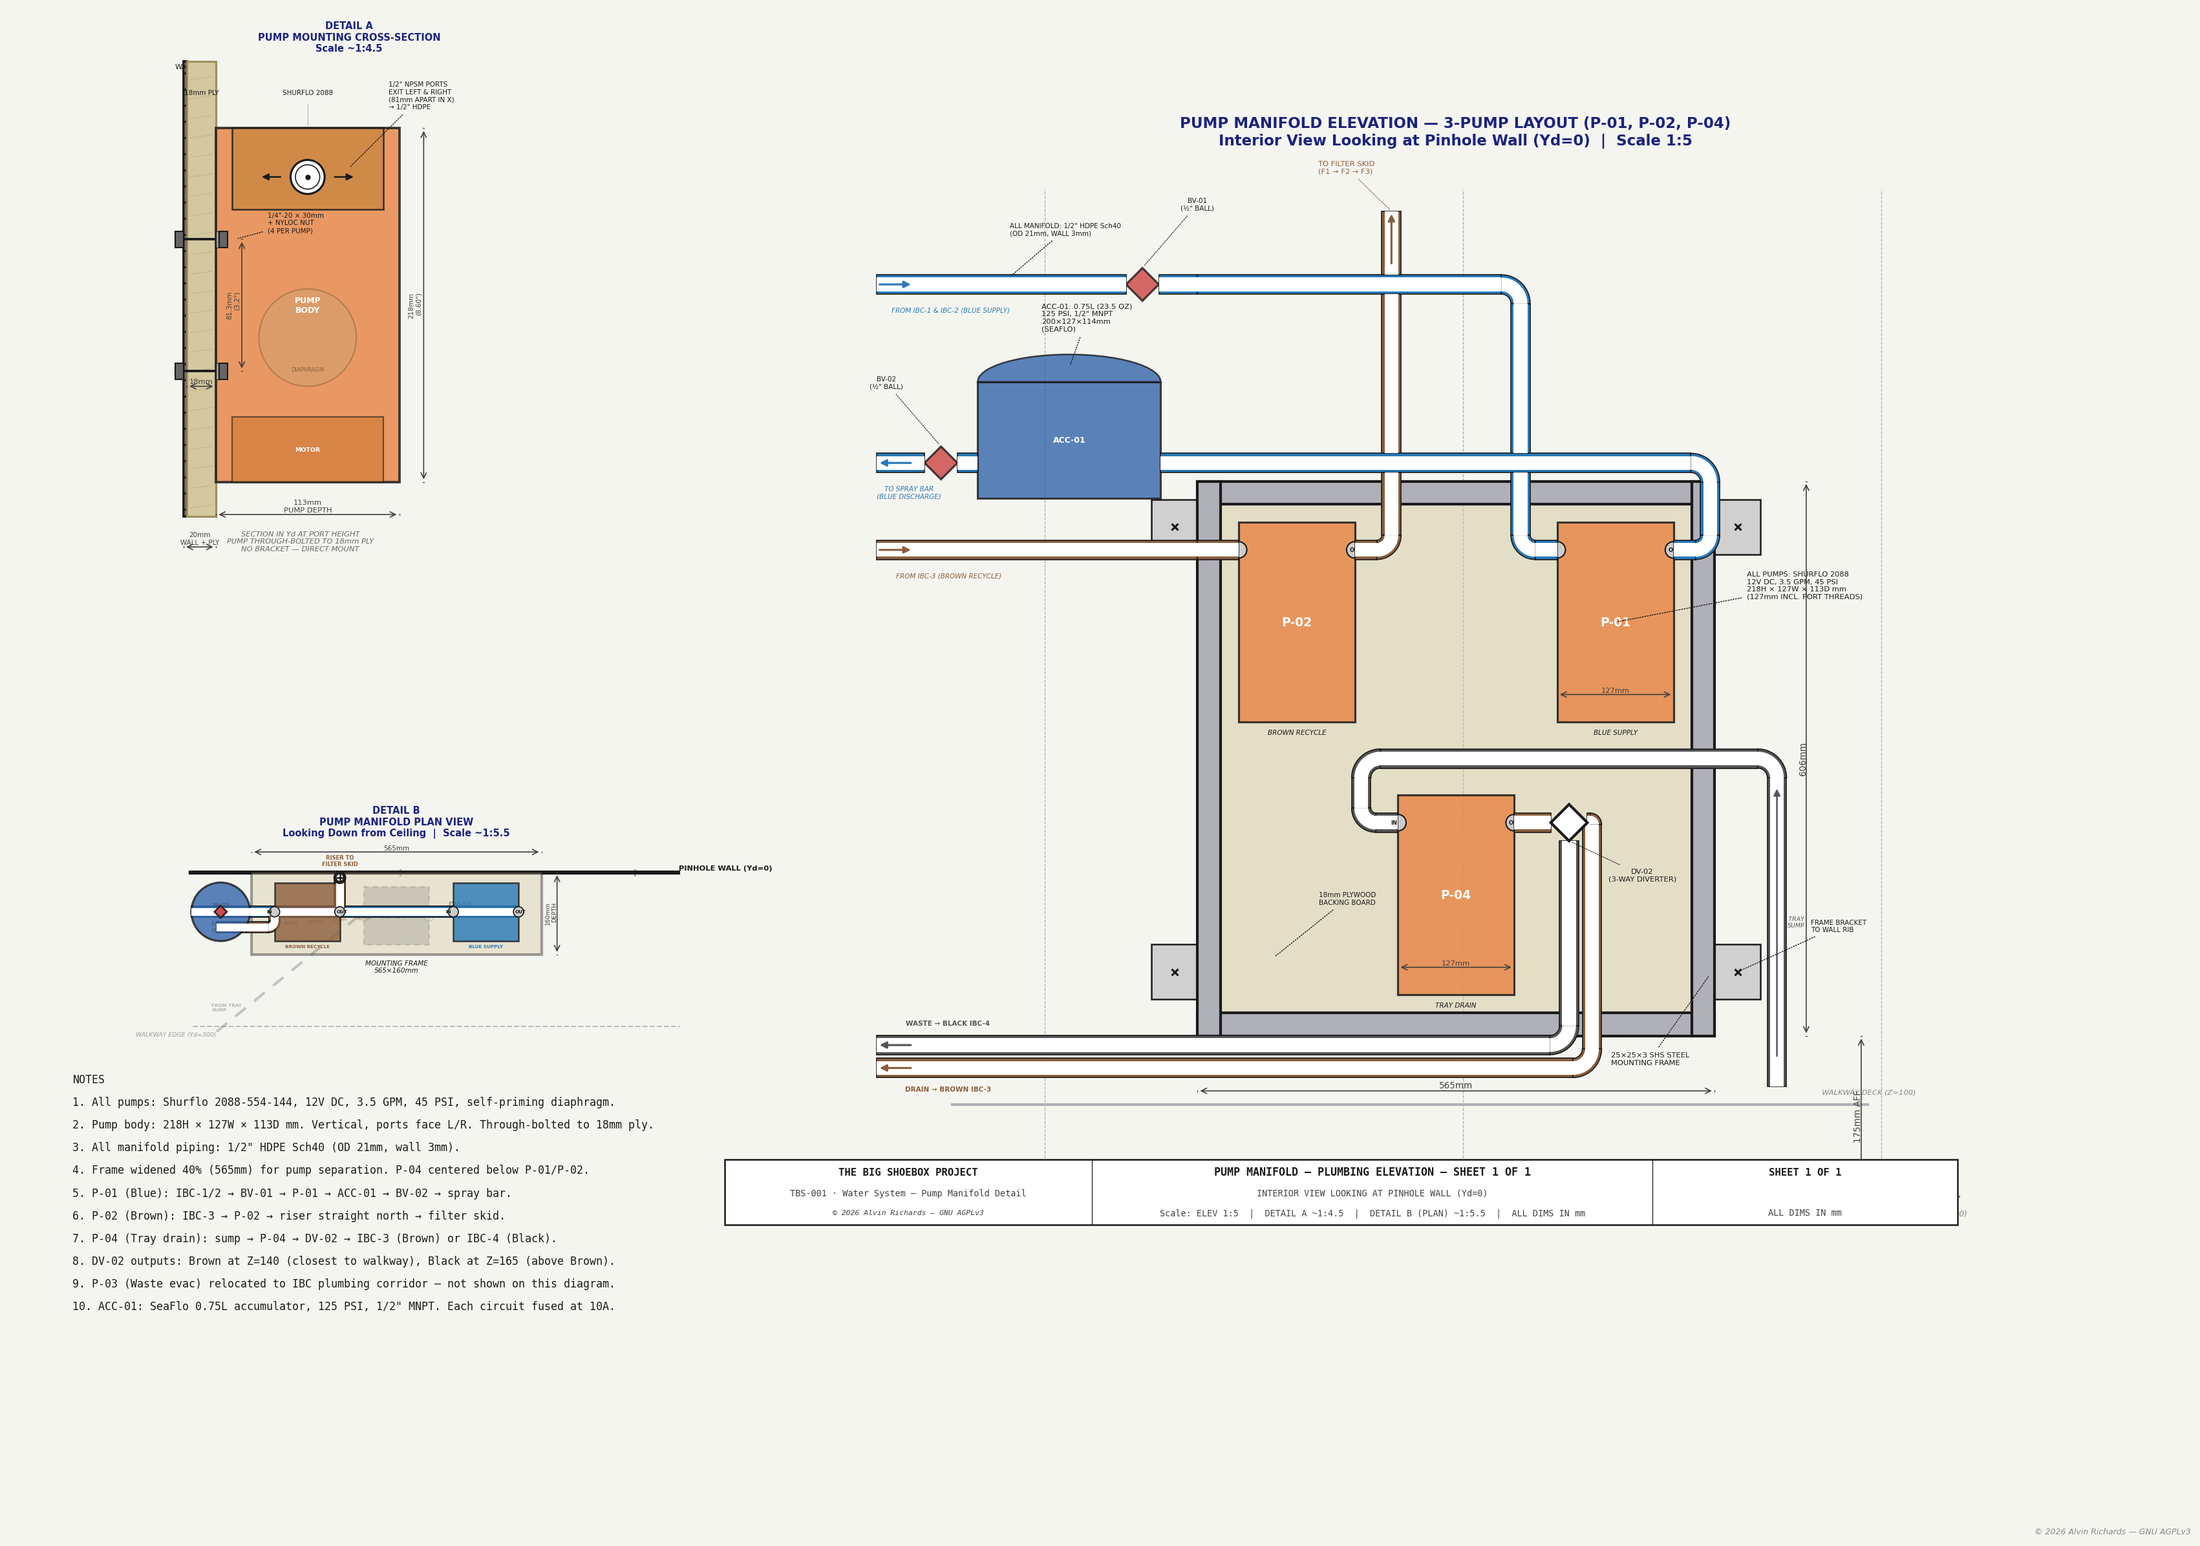
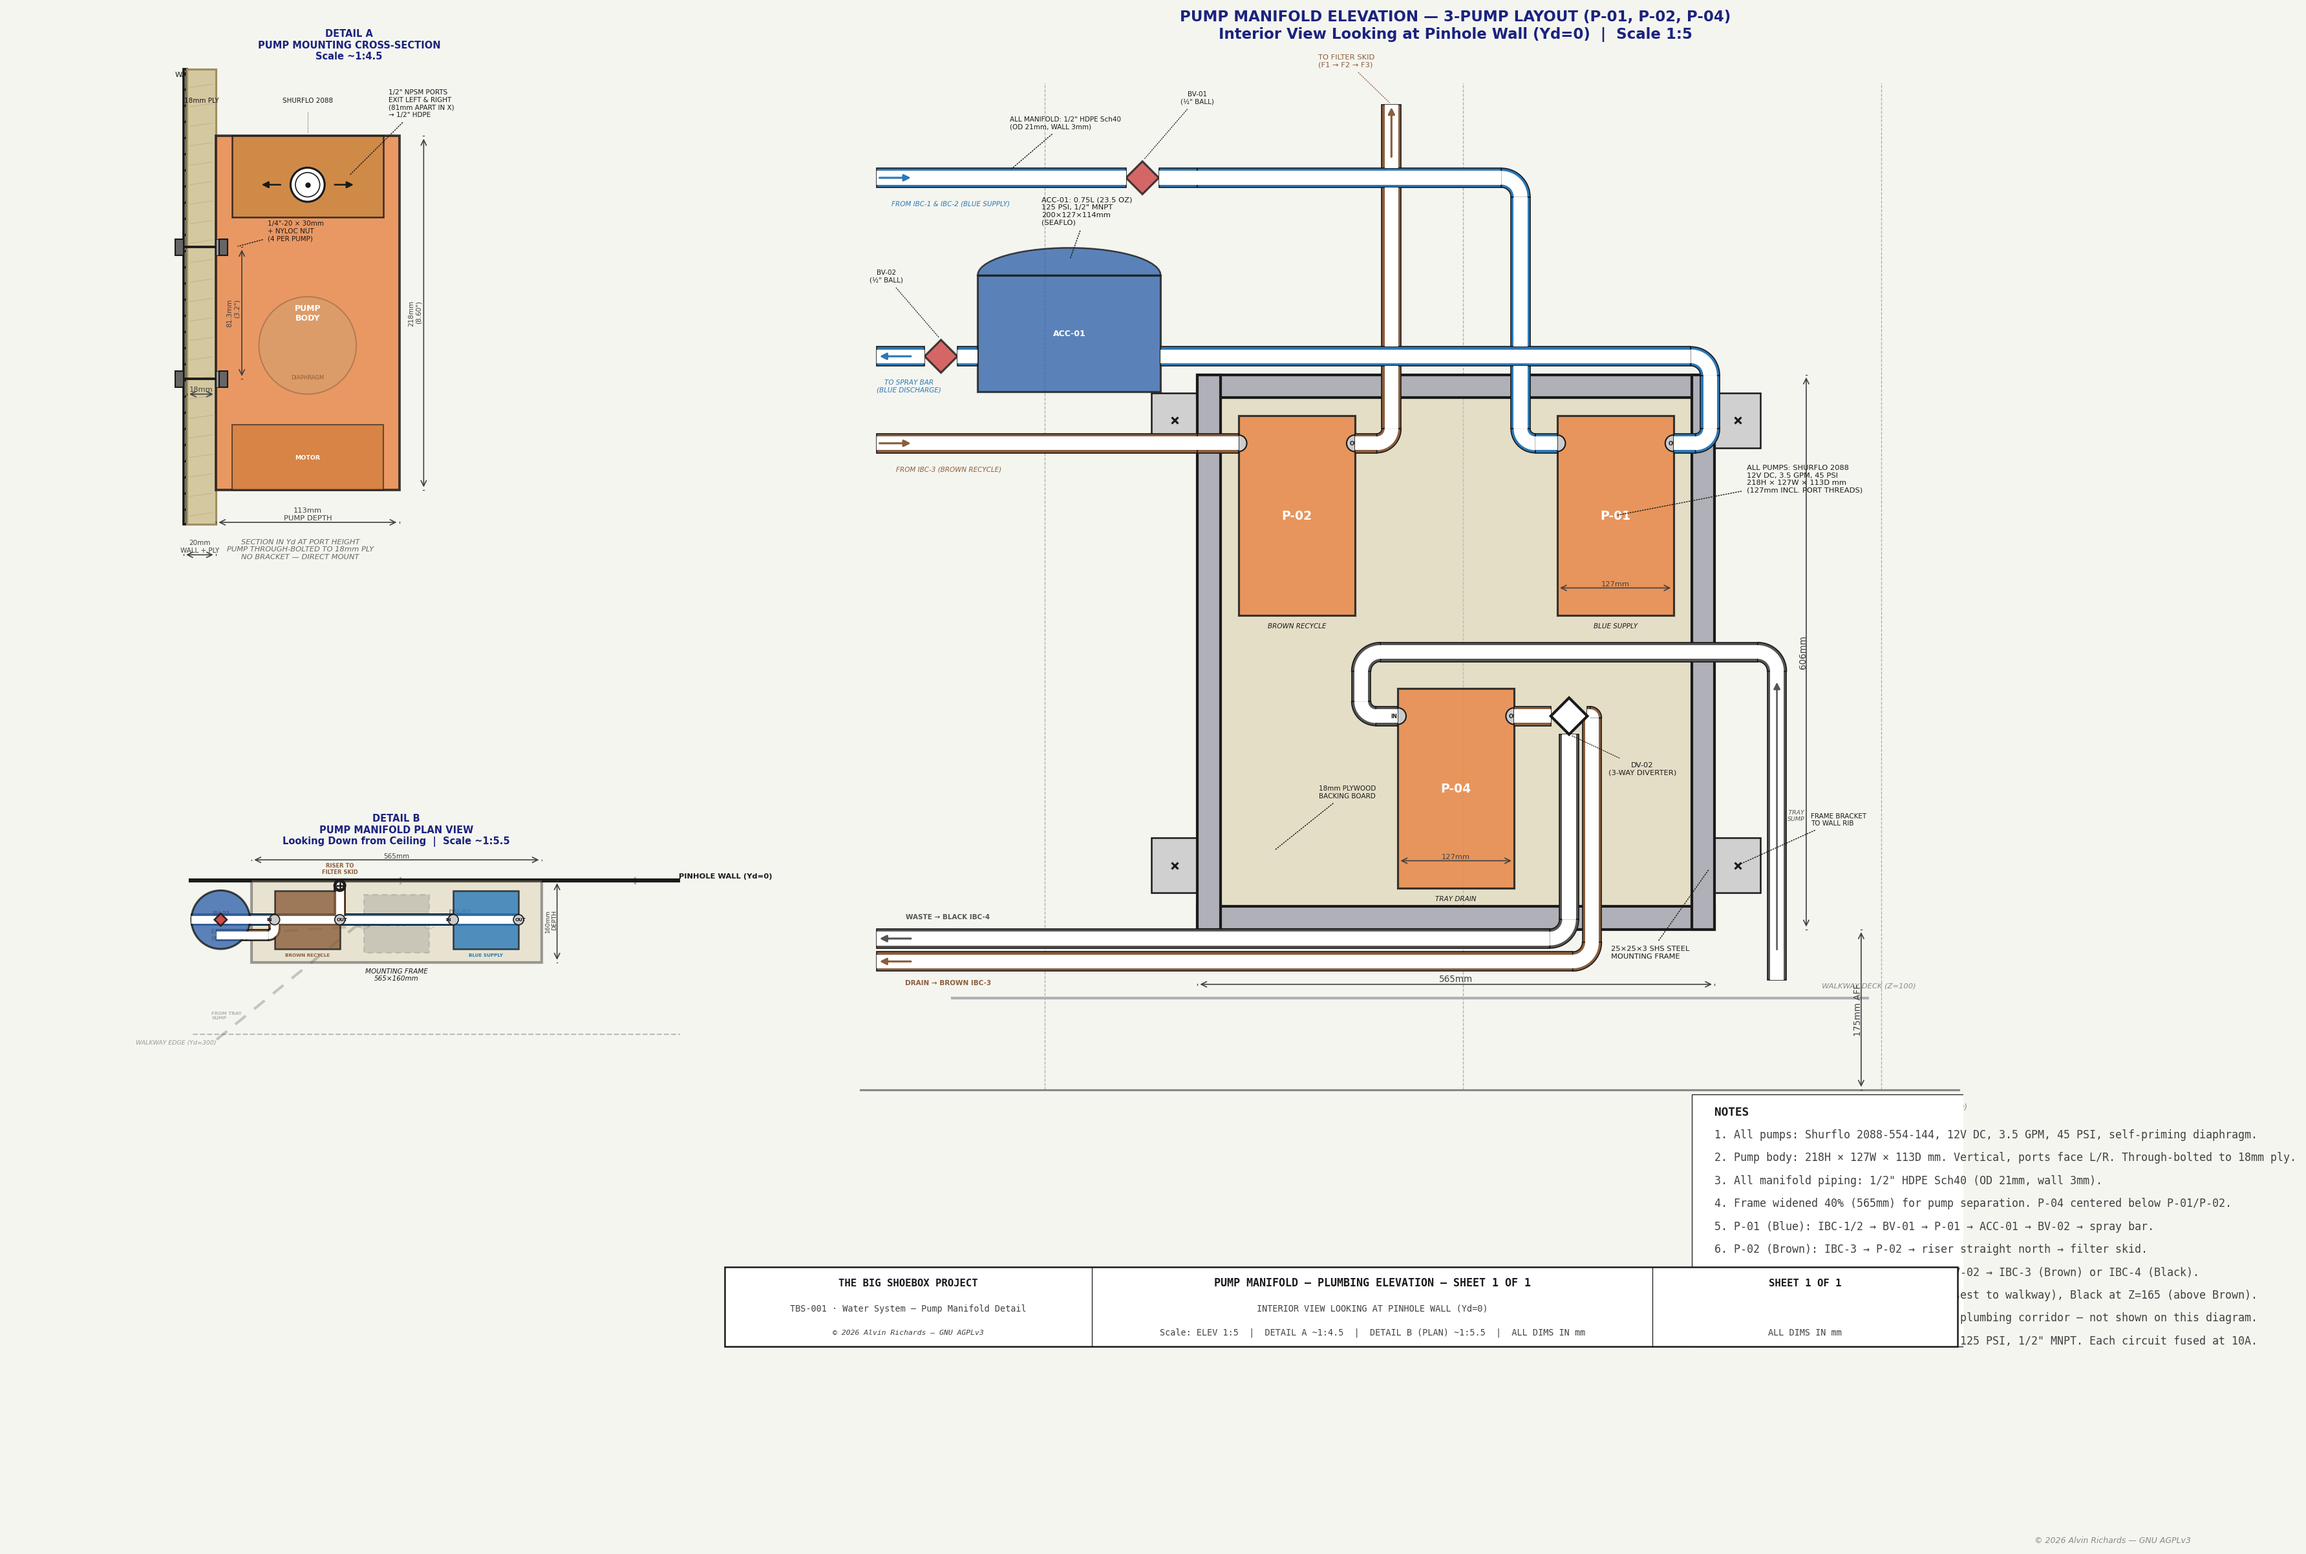
Add draw_notes() to tbs_drawing.py, refactor pump manifold to use it
New shared function draws a bordered notes block with bold title,
thin black border, and automatic width measurement. Handles mirrored
X axes. Pump manifold diagram converted as first consumer.

diff --git a/tbs_drawing.py b/tbs_drawing.py
@@ -5,15 +5,16 @@
 tbs_drawing.py — Shared drawing helpers for all TBS engineering diagrams.
 
 Provides dimension lines, leader lines, center lines, circles, rectangles,
-bolt hole patterns, and hatching.  All functions take an axes object as the
-first argument and use keyword defaults matching the TBS palette in
-tbs_constants.py.
+bolt hole patterns, hatching, and notes blocks.  All functions take an axes
+object as the first argument and use keyword defaults matching the TBS palette
+in tbs_constants.py.
 
 Usage
 -----
     from tbs_drawing import (draw_dim_h, draw_dim_v, leader, draw_cl,
                              draw_circle, draw_rect, bolt_holes, hatch_rect,
-                             place_label, register_pipe, reset_label_registry)
+                             place_label, register_pipe, reset_label_registry,
+                             draw_notes)
 """
 
 import numpy as np
@@ -435,3 +436,96 @@ def hatch_lines(ax, patch, *, spacing=3, angle=45, color="#AAAAAA",
         py0 = cy_h + off * np.sin(angle_r + np.pi / 2) - dy / 2
         ax.plot([px0, px0 + dx], [py0, py0 + dy],
                 color=color, lw=lw, clip_path=patch, clip_on=True)
+
+
+# ── Notes block ────────────────────────────────────────────────────────────
+
+def draw_notes(ax, notes, x, y_top, spacing, *, fs=7, title_fs=None,
+               color=C_DIM, title_color=C_OUT, ha="left", pad_x=None,
+               pad_y=None, border_color=C_OUT, border_lw=0.6, zorder=15,
+               font=None):
+    """Draw a bordered notes block with bold first line.
+
+    Parameters
+    ----------
+    ax : matplotlib Axes
+    notes : list[str]
+        Lines of text. First line is rendered bold as the title.
+    x, y_top : float
+        Top-left corner of the text block in axes data coordinates.
+    spacing : float
+        Vertical distance between lines in axes data units.
+    fs : float
+        Font size for body lines (default 7).
+    title_fs : float or None
+        Font size for the title line; defaults to *fs* + 0.5.
+    color : str
+        Body text color.
+    title_color : str
+        Title (first line) color.
+    ha : str
+        Horizontal alignment — 'left' or 'center'.
+    pad_x : float or None
+        Horizontal padding inside border (data units). Defaults to spacing.
+    pad_y : float or None
+        Vertical padding inside border (data units). Defaults to spacing * 0.5.
+    border_color : str
+        Border rectangle edge color.
+    border_lw : float
+        Border line width.
+    zorder : int
+        Drawing layer.
+    font : dict or None
+        Extra font kwargs (e.g. ``{"fontfamily": "monospace"}``).
+    """
+    if title_fs is None:
+        title_fs = fs + 0.5
+    if pad_x is None:
+        pad_x = spacing
+    if pad_y is None:
+        pad_y = spacing * 0.5
+    if font is None:
+        font = {}
+
+    # Draw text lines
+    for i, line in enumerate(notes):
+        is_title = (i == 0)
+        y = y_top - i * spacing
+        ax.text(x, y, line, ha=ha, va="top",
+                fontsize=title_fs if is_title else fs,
+                color=title_color if is_title else color,
+                fontweight="bold" if is_title else "normal",
+                zorder=zorder + 1, **font)
+
+    # Border rectangle
+    n = len(notes)
+    box_top = y_top + pad_y
+    box_bot = y_top - (n - 1) * spacing - pad_y
+    box_h = box_top - box_bot
+
+    # Measure width of the longest line using a scratch render
+    longest = max(notes, key=len)
+    t = ax.text(x, y_top, longest, fontsize=fs, va="top", ha=ha,
+                **font, alpha=0)
+    ax.figure.canvas.draw()
+    bb = t.get_window_extent(renderer=ax.figure.canvas.get_renderer())
+    inv = ax.transData.inverted()
+    data_bb = inv.transform(bb)
+    text_w = abs(data_bb[1][0] - data_bb[0][0])
+    t.remove()
+
+    # Handle mirrored (inverted) X axis
+    x_inverted = ax.get_xlim()[0] > ax.get_xlim()[1]
+    sign = -1 if x_inverted else 1
+
+    if ha == "center":
+        box_left_x = x - sign * (text_w / 2 + pad_x)
+    else:
+        box_left_x = x - sign * pad_x
+    box_w = sign * (text_w + 2 * pad_x)
+
+    rect = mpatches.FancyBboxPatch(
+        (box_left_x, box_bot), box_w, box_h,
+        boxstyle="square,pad=0", fc="white", ec=border_color,
+        lw=border_lw, zorder=zorder)
+    ax.add_patch(rect)

diff --git a/generate_pump_manifold_diagram.py b/generate_pump_manifold_diagram.py
@@ -43,7 +43,7 @@ from tbs_constants import (
 from tbs_title_block import title_block
 from tbs_drawing import (
     draw_dim_h, draw_dim_v, leader, draw_rect, hatch_rect,
-    place_label, register_pipe, reset_label_registry,
+    place_label, register_pipe, reset_label_registry, draw_notes,
 )
 
 # ── Color palette ─────────────────────────────────────────────────────────────
@@ -104,7 +104,7 @@ ax3.axis("off")
 
 # Axis limits — elevation panel
 ax.set_xlim(sx(2200) - 1, sx(3550) + 1)
-ax.set_ylim(sz(-30) - 1, sz(1150) + 2)
+ax.set_ylim(sz(-280) - 1, sz(1150) + 2)
 
 # Mirror X axis for interior view convention
 ax.invert_xaxis()
@@ -762,15 +762,8 @@ notes = [
     "9. P-03 (Waste evac) relocated to IBC plumbing corridor — not shown on this diagram.",
     "10. ACC-01: SeaFlo 0.75L accumulator, 125 PSI, 1/2\" MNPT. Each circuit fused at 10A.",
 ]
-# Align notes bottom with title block bottom.
-# Title block sits at ax-fraction y0=0.003 → figure y ≈ 0.14.
-# Stack notes upward from there.
-_notes_bottom = 0.14
-_notes_spacing = 0.013
-_notes_top = _notes_bottom + (len(notes) - 1) * _notes_spacing
-for i, n in enumerate(notes):
-    fig.text(0.15, _notes_top - i * _notes_spacing, n, fontsize=8, color=C_TEXT,
-             fontfamily="monospace", va="top")
+draw_notes(ax, notes, sx(FRAME_X), sz(-18), spacing=5.0, fs=8,
+           font={"fontfamily": "monospace"})
 
 
 # ═══════════════════════════════════════════════════════════════════════════════
